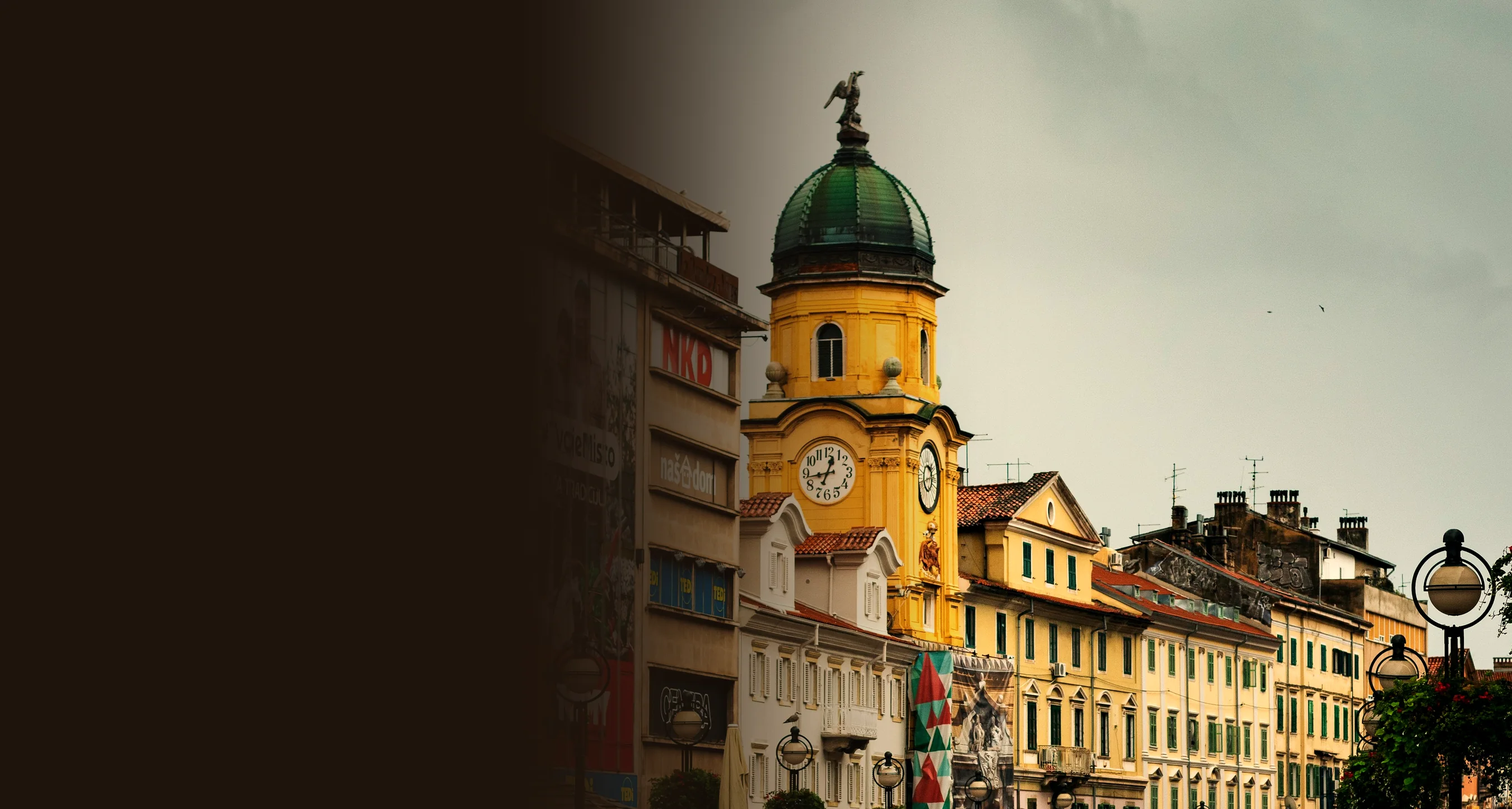
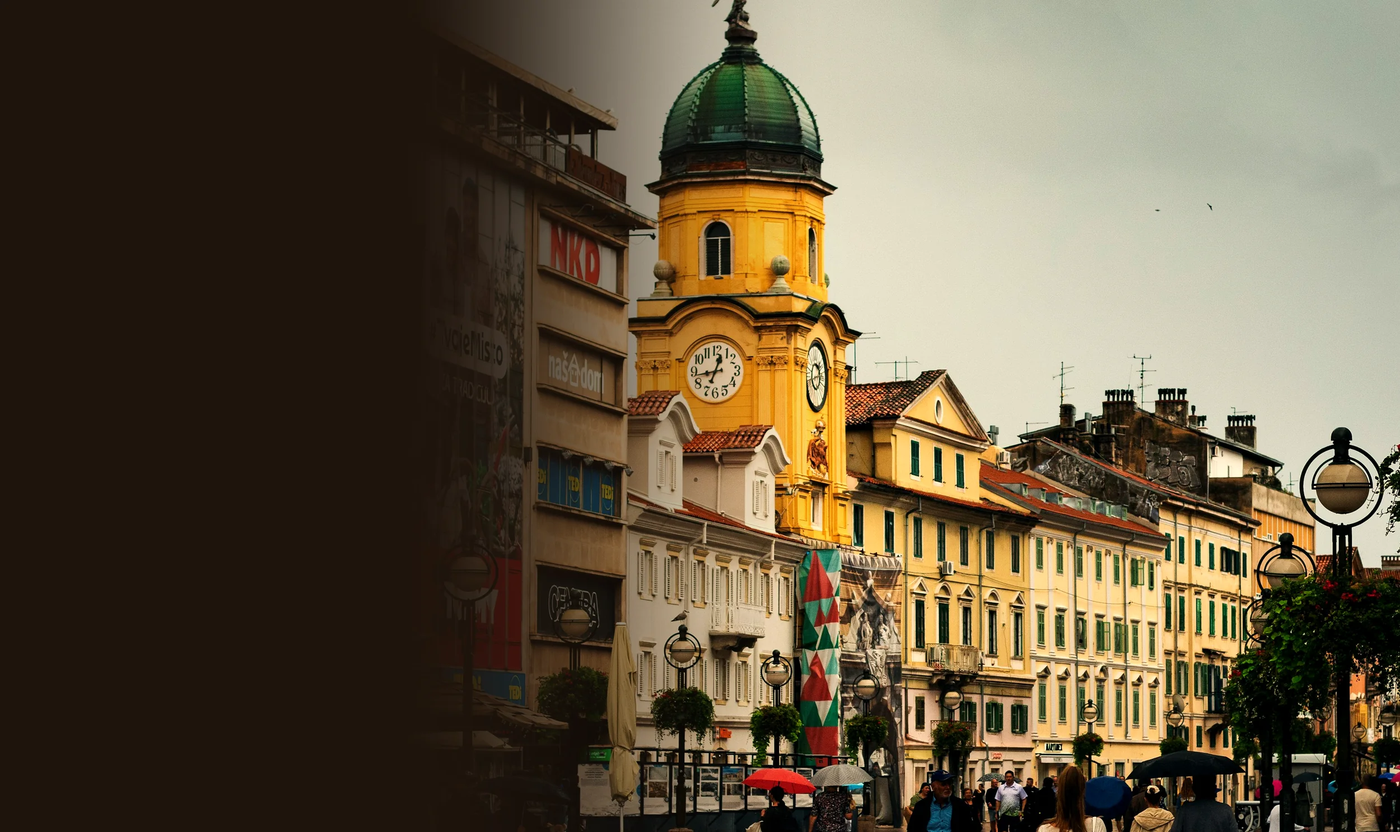
Pravne informacije: a little of the Korzo street back, passers-by small and fading into the dark at the bottom

diff --git a/index.html b/index.html
@@ -14,12 +14,12 @@
 <meta property="og:description" content="Prevoditeljska agencija Orbita: ovjereni prijevodi sudskih tumača, pisani i usmeni prijevodi na više od 30 jezika te lektura. Uredi u Rijeci (Kastav) i Zagrebu. Zatražite neobvezujuću ponudu.">
 <meta property="og:image" content="https://www.orbitaprijevodi.com/assets/hero-desk.jpg">
 <meta property="og:locale" content="hr_HR">
-<link rel="preload" as="image" href="assets/hero-desk.webp?v=116" type="image/webp">
+<link rel="preload" as="image" href="assets/hero-desk.webp?v=117" type="image/webp">
 <script type="application/ld+json">{"@context": "https://schema.org", "@graph": [{"@type": "ProfessionalService", "name": "Orbita prijevodi, ured u Rijeci", "url": "https://www.orbitaprijevodi.com/", "image": "https://www.orbitaprijevodi.com/assets/hero-desk.jpg", "logo": "https://www.orbitaprijevodi.com/assets/orbita-logo.png", "telephone": "+385981631930", "email": "info@orbitaprijevodi.com", "address": {"@type": "PostalAddress", "streetAddress": "Ćikovići 109", "addressLocality": "Kastav", "postalCode": "51215", "addressCountry": "HR"}, "areaServed": "HR", "knowsLanguage": ["hr", "en", "sl", "sr", "de", "it", "fr", "es"], "contactPoint": [{"@type": "ContactPoint", "telephone": "+385981631930", "contactType": "customer service", "availableLanguage": ["Croatian", "English", "Slovenian"]}, {"@type": "ContactPoint", "telephone": "+38551223932", "contactType": "customer service", "availableLanguage": ["Croatian", "English", "Slovenian"]}]}, {"@type": "ProfessionalService", "name": "Orbita prijevodi, ured u Zagrebu", "url": "https://www.orbitaprijevodi.com/", "image": "https://www.orbitaprijevodi.com/assets/hero-desk.jpg", "logo": "https://www.orbitaprijevodi.com/assets/orbita-logo.png", "telephone": "+385916126784", "email": "zagreb@orbitaprijevodi.com", "address": {"@type": "PostalAddress", "streetAddress": "Martićeva ulica 67", "addressLocality": "Zagreb", "postalCode": "10000", "addressCountry": "HR"}, "areaServed": "HR", "knowsLanguage": ["hr", "en", "sl", "sr", "de", "it", "fr", "es"], "contactPoint": [{"@type": "ContactPoint", "telephone": "+385916126784", "contactType": "customer service", "availableLanguage": ["Croatian", "English", "Slovenian"]}, {"@type": "ContactPoint", "telephone": "+38512018053", "contactType": "customer service", "availableLanguage": ["Croatian", "English", "Slovenian"]}]}]}</script>
 <link rel="preconnect" href="https://fonts.googleapis.com">
 <link rel="preconnect" href="https://fonts.gstatic.com" crossorigin>
 <link href="https://fonts.googleapis.com/css2?family=Fraunces:ital,opsz,wght@0,9..144,300;0,9..144,400;1,9..144,300;1,9..144,400&family=DM+Sans:wght@400;500&family=DM+Mono:wght@400&display=swap" rel="stylesheet">
-<link rel="stylesheet" href="styles.css?v=116">
+<link rel="stylesheet" href="styles.css?v=117">
 </head>
 <body>
 
@@ -308,11 +308,11 @@
 
 <a class="float-cta pill pill-accent" href="#ponuda">Zatražite ponudu</a>
 
-<script src="content.js?v=116"></script>
+<script src="content.js?v=117"></script>
 <script src="https://cdn.jsdelivr.net/npm/topojson-client@3.1.0/dist/topojson-client.min.js"></script>
-<script src="globe.js?v=116"></script>
-<script src="app.js?v=116"></script>
-<script src="form.js?v=116"></script>
-<script src="consent.js?v=116"></script>
+<script src="globe.js?v=117"></script>
+<script src="app.js?v=117"></script>
+<script src="form.js?v=117"></script>
+<script src="consent.js?v=117"></script>
 </body>
 </html>

diff --git a/pisanje-dokumentacije-za-studij-i-zaposlenje-u-inozemstvu/index.html b/pisanje-dokumentacije-za-studij-i-zaposlenje-u-inozemstvu/index.html
@@ -19,7 +19,7 @@
 <link rel="preconnect" href="https://fonts.googleapis.com">
 <link rel="preconnect" href="https://fonts.gstatic.com" crossorigin>
 <link href="https://fonts.googleapis.com/css2?family=Fraunces:ital,opsz,wght@0,9..144,300;0,9..144,400;1,9..144,300;1,9..144,400&family=DM+Sans:wght@400;500&family=DM+Mono:wght@400&display=swap" rel="stylesheet">
-<link rel="stylesheet" href="../styles.css?v=116">
+<link rel="stylesheet" href="../styles.css?v=117">
 </head>
 <body class="subpage">
 <header class="nav" id="nav">
@@ -39,7 +39,7 @@
 </header>
 <main>
   <section class="hero page-hero">
-    <div class="hero-bg lp-photo" style="background-image:url(../assets/usluge/pisanje-dokumentacije-za-studij-i-zaposlenje-u-inozemstvu.webp?v=116);background-position:50% 0%" aria-hidden="true"></div>
+    <div class="hero-bg lp-photo" style="background-image:url(../assets/usluge/pisanje-dokumentacije-za-studij-i-zaposlenje-u-inozemstvu.webp?v=117);background-position:50% 0%" aria-hidden="true"></div>
     <div class="hero-text">
       <div class="lp-offices" aria-label="Naši uredi"><div><strong>Rijeka</strong><span>Ćikovići 109, 51215 Kastav</span><a href="tel:+385981631930">098 163 19 30</a><a href="mailto:info@orbitaprijevodi.com">info@orbitaprijevodi.com</a></div><div><strong>Zagreb</strong><span>Martićeva ulica 67, 10000 Zagreb</span><a href="tel:+385916126784">091 612 6784</a><a href="mailto:zagreb@orbitaprijevodi.com">zagreb@orbitaprijevodi.com</a></div></div>
       <nav class="crumbs" aria-label="Putanja"><a href="../">Početna</a> <span>/</span> <a href="../usluge/">Usluge</a> <span>/</span> <span aria-current="page">Studij i posao u inozemstvu</span></nav>
@@ -140,8 +140,8 @@
     <nav><a href="../kontakt/">Kontakt</a><a href="../pravne-informacije/">Pravne informacije</a><a href="../zastita-privatnosti/">Zaštita privatnosti</a><a href="#" data-cookie-settings>Postavke kolačića</a></nav>
   </div>
 </footer>
-<script src="../page.js?v=116"></script>
-<script src="../consent.js?v=116"></script>
-<script src="../form.js?v=116"></script>
+<script src="../page.js?v=117"></script>
+<script src="../consent.js?v=117"></script>
+<script src="../form.js?v=117"></script>
 </body>
 </html>

diff --git a/pisanje-u-raznim-profesionalnim-podrucjima/index.html b/pisanje-u-raznim-profesionalnim-podrucjima/index.html
@@ -19,7 +19,7 @@
 <link rel="preconnect" href="https://fonts.googleapis.com">
 <link rel="preconnect" href="https://fonts.gstatic.com" crossorigin>
 <link href="https://fonts.googleapis.com/css2?family=Fraunces:ital,opsz,wght@0,9..144,300;0,9..144,400;1,9..144,300;1,9..144,400&family=DM+Sans:wght@400;500&family=DM+Mono:wght@400&display=swap" rel="stylesheet">
-<link rel="stylesheet" href="../styles.css?v=116">
+<link rel="stylesheet" href="../styles.css?v=117">
 </head>
 <body class="subpage">
 <header class="nav" id="nav">
@@ -39,7 +39,7 @@
 </header>
 <main>
   <section class="hero page-hero">
-    <div class="hero-bg lp-photo" style="background-image:url(../assets/usluge/pisanje-u-raznim-profesionalnim-podrucjima.webp?v=116);background-position:40% 50%" aria-hidden="true"></div>
+    <div class="hero-bg lp-photo" style="background-image:url(../assets/usluge/pisanje-u-raznim-profesionalnim-podrucjima.webp?v=117);background-position:40% 50%" aria-hidden="true"></div>
     <div class="hero-text">
       <div class="lp-offices" aria-label="Naši uredi"><div><strong>Rijeka</strong><span>Ćikovići 109, 51215 Kastav</span><a href="tel:+385981631930">098 163 19 30</a><a href="mailto:info@orbitaprijevodi.com">info@orbitaprijevodi.com</a></div><div><strong>Zagreb</strong><span>Martićeva ulica 67, 10000 Zagreb</span><a href="tel:+385916126784">091 612 6784</a><a href="mailto:zagreb@orbitaprijevodi.com">zagreb@orbitaprijevodi.com</a></div></div>
       <nav class="crumbs" aria-label="Putanja"><a href="../">Početna</a> <span>/</span> <a href="../usluge/">Usluge</a> <span>/</span> <span aria-current="page">Stručni tekstovi</span></nav>
@@ -140,8 +140,8 @@
     <nav><a href="../kontakt/">Kontakt</a><a href="../pravne-informacije/">Pravne informacije</a><a href="../zastita-privatnosti/">Zaštita privatnosti</a><a href="#" data-cookie-settings>Postavke kolačića</a></nav>
   </div>
 </footer>
-<script src="../page.js?v=116"></script>
-<script src="../consent.js?v=116"></script>
-<script src="../form.js?v=116"></script>
+<script src="../page.js?v=117"></script>
+<script src="../consent.js?v=117"></script>
+<script src="../form.js?v=117"></script>
 </body>
 </html>

diff --git a/asistiranje-u-pisanju-teksta/index.html b/asistiranje-u-pisanju-teksta/index.html
@@ -19,7 +19,7 @@
 <link rel="preconnect" href="https://fonts.googleapis.com">
 <link rel="preconnect" href="https://fonts.gstatic.com" crossorigin>
 <link href="https://fonts.googleapis.com/css2?family=Fraunces:ital,opsz,wght@0,9..144,300;0,9..144,400;1,9..144,300;1,9..144,400&family=DM+Sans:wght@400;500&family=DM+Mono:wght@400&display=swap" rel="stylesheet">
-<link rel="stylesheet" href="../styles.css?v=116">
+<link rel="stylesheet" href="../styles.css?v=117">
 </head>
 <body class="subpage">
 <header class="nav" id="nav">
@@ -39,7 +39,7 @@
 </header>
 <main>
   <section class="hero page-hero">
-    <div class="hero-bg lp-photo" style="background-image:url(../assets/usluge/asistiranje-u-pisanju-teksta.webp?v=116);background-position:50% 18%" aria-hidden="true"></div>
+    <div class="hero-bg lp-photo" style="background-image:url(../assets/usluge/asistiranje-u-pisanju-teksta.webp?v=117);background-position:50% 18%" aria-hidden="true"></div>
     <div class="hero-text">
       <div class="lp-offices" aria-label="Naši uredi"><div><strong>Rijeka</strong><span>Ćikovići 109, 51215 Kastav</span><a href="tel:+385981631930">098 163 19 30</a><a href="mailto:info@orbitaprijevodi.com">info@orbitaprijevodi.com</a></div><div><strong>Zagreb</strong><span>Martićeva ulica 67, 10000 Zagreb</span><a href="tel:+385916126784">091 612 6784</a><a href="mailto:zagreb@orbitaprijevodi.com">zagreb@orbitaprijevodi.com</a></div></div>
       <nav class="crumbs" aria-label="Putanja"><a href="../">Početna</a> <span>/</span> <a href="../usluge/">Usluge</a> <span>/</span> <span aria-current="page">Životopisi i motivacijska pisma</span></nav>
@@ -140,8 +140,8 @@
     <nav><a href="../kontakt/">Kontakt</a><a href="../pravne-informacije/">Pravne informacije</a><a href="../zastita-privatnosti/">Zaštita privatnosti</a><a href="#" data-cookie-settings>Postavke kolačića</a></nav>
   </div>
 </footer>
-<script src="../page.js?v=116"></script>
-<script src="../consent.js?v=116"></script>
-<script src="../form.js?v=116"></script>
+<script src="../page.js?v=117"></script>
+<script src="../consent.js?v=117"></script>
+<script src="../form.js?v=117"></script>
 </body>
 </html>

diff --git a/marketinski-tekstovi/index.html b/marketinski-tekstovi/index.html
@@ -19,7 +19,7 @@
 <link rel="preconnect" href="https://fonts.googleapis.com">
 <link rel="preconnect" href="https://fonts.gstatic.com" crossorigin>
 <link href="https://fonts.googleapis.com/css2?family=Fraunces:ital,opsz,wght@0,9..144,300;0,9..144,400;1,9..144,300;1,9..144,400&family=DM+Sans:wght@400;500&family=DM+Mono:wght@400&display=swap" rel="stylesheet">
-<link rel="stylesheet" href="../styles.css?v=116">
+<link rel="stylesheet" href="../styles.css?v=117">
 </head>
 <body class="subpage">
 <header class="nav" id="nav">
@@ -39,7 +39,7 @@
 </header>
 <main>
   <section class="hero page-hero">
-    <div class="hero-bg lp-photo" style="background-image:url(../assets/usluge/marketinski-tekstovi.webp?v=116);background-position:5% 55%" aria-hidden="true"></div>
+    <div class="hero-bg lp-photo" style="background-image:url(../assets/usluge/marketinski-tekstovi.webp?v=117);background-position:5% 55%" aria-hidden="true"></div>
     <div class="hero-text">
       <div class="lp-offices" aria-label="Naši uredi"><div><strong>Rijeka</strong><span>Ćikovići 109, 51215 Kastav</span><a href="tel:+385981631930">098 163 19 30</a><a href="mailto:info@orbitaprijevodi.com">info@orbitaprijevodi.com</a></div><div><strong>Zagreb</strong><span>Martićeva ulica 67, 10000 Zagreb</span><a href="tel:+385916126784">091 612 6784</a><a href="mailto:zagreb@orbitaprijevodi.com">zagreb@orbitaprijevodi.com</a></div></div>
       <nav class="crumbs" aria-label="Putanja"><a href="../">Početna</a> <span>/</span> <a href="../usluge/">Usluge</a> <span>/</span> <span aria-current="page">Marketinški tekstovi</span></nav>
@@ -140,8 +140,8 @@
     <nav><a href="../kontakt/">Kontakt</a><a href="../pravne-informacije/">Pravne informacije</a><a href="../zastita-privatnosti/">Zaštita privatnosti</a><a href="#" data-cookie-settings>Postavke kolačića</a></nav>
   </div>
 </footer>
-<script src="../page.js?v=116"></script>
-<script src="../consent.js?v=116"></script>
-<script src="../form.js?v=116"></script>
+<script src="../page.js?v=117"></script>
+<script src="../consent.js?v=117"></script>
+<script src="../form.js?v=117"></script>
 </body>
 </html>

diff --git a/ovjereni-prijevodi/index.html b/ovjereni-prijevodi/index.html
@@ -19,7 +19,7 @@
 <link rel="preconnect" href="https://fonts.googleapis.com">
 <link rel="preconnect" href="https://fonts.gstatic.com" crossorigin>
 <link href="https://fonts.googleapis.com/css2?family=Fraunces:ital,opsz,wght@0,9..144,300;0,9..144,400;1,9..144,300;1,9..144,400&family=DM+Sans:wght@400;500&family=DM+Mono:wght@400&display=swap" rel="stylesheet">
-<link rel="stylesheet" href="../styles.css?v=116">
+<link rel="stylesheet" href="../styles.css?v=117">
 </head>
 <body class="subpage">
 <header class="nav" id="nav">
@@ -39,7 +39,7 @@
 </header>
 <main>
   <section class="hero page-hero">
-    <div class="hero-bg lp-photo" style="background-image:url(../assets/usluge/ovjereni-prijevodi.webp?v=116);background-position:45% 60%" aria-hidden="true"></div>
+    <div class="hero-bg lp-photo" style="background-image:url(../assets/usluge/ovjereni-prijevodi.webp?v=117);background-position:45% 60%" aria-hidden="true"></div>
     <div class="hero-text">
       <div class="lp-offices" aria-label="Naši uredi"><div><strong>Rijeka</strong><span>Ćikovići 109, 51215 Kastav</span><a href="tel:+385981631930">098 163 19 30</a><a href="mailto:info@orbitaprijevodi.com">info@orbitaprijevodi.com</a></div><div><strong>Zagreb</strong><span>Martićeva ulica 67, 10000 Zagreb</span><a href="tel:+385916126784">091 612 6784</a><a href="mailto:zagreb@orbitaprijevodi.com">zagreb@orbitaprijevodi.com</a></div></div>
       <nav class="crumbs" aria-label="Putanja"><a href="../">Početna</a> <span>/</span> <a href="../usluge/">Usluge</a> <span>/</span> <span aria-current="page">Ovjereni prijevodi</span></nav>
@@ -142,8 +142,8 @@
     <nav><a href="../kontakt/">Kontakt</a><a href="../pravne-informacije/">Pravne informacije</a><a href="../zastita-privatnosti/">Zaštita privatnosti</a><a href="#" data-cookie-settings>Postavke kolačića</a></nav>
   </div>
 </footer>
-<script src="../page.js?v=116"></script>
-<script src="../consent.js?v=116"></script>
-<script src="../form.js?v=116"></script>
+<script src="../page.js?v=117"></script>
+<script src="../consent.js?v=117"></script>
+<script src="../form.js?v=117"></script>
 </body>
 </html>

diff --git a/usmeni-prijevodi/index.html b/usmeni-prijevodi/index.html
@@ -19,7 +19,7 @@
 <link rel="preconnect" href="https://fonts.googleapis.com">
 <link rel="preconnect" href="https://fonts.gstatic.com" crossorigin>
 <link href="https://fonts.googleapis.com/css2?family=Fraunces:ital,opsz,wght@0,9..144,300;0,9..144,400;1,9..144,300;1,9..144,400&family=DM+Sans:wght@400;500&family=DM+Mono:wght@400&display=swap" rel="stylesheet">
-<link rel="stylesheet" href="../styles.css?v=116">
+<link rel="stylesheet" href="../styles.css?v=117">
 </head>
 <body class="subpage">
 <header class="nav" id="nav">
@@ -39,7 +39,7 @@
 </header>
 <main>
   <section class="hero page-hero">
-    <div class="hero-bg lp-photo" style="background-image:url(../assets/usluge/usmeni-prijevodi.webp?v=116);background-position:55% 70%" aria-hidden="true"></div>
+    <div class="hero-bg lp-photo" style="background-image:url(../assets/usluge/usmeni-prijevodi.webp?v=117);background-position:55% 70%" aria-hidden="true"></div>
     <div class="hero-text">
       <div class="lp-offices" aria-label="Naši uredi"><div><strong>Rijeka</strong><span>Ćikovići 109, 51215 Kastav</span><a href="tel:+385981631930">098 163 19 30</a><a href="mailto:info@orbitaprijevodi.com">info@orbitaprijevodi.com</a></div><div><strong>Zagreb</strong><span>Martićeva ulica 67, 10000 Zagreb</span><a href="tel:+385916126784">091 612 6784</a><a href="mailto:zagreb@orbitaprijevodi.com">zagreb@orbitaprijevodi.com</a></div></div>
       <nav class="crumbs" aria-label="Putanja"><a href="../">Početna</a> <span>/</span> <a href="../usluge/">Usluge</a> <span>/</span> <span aria-current="page">Usmeno prevođenje</span></nav>
@@ -140,8 +140,8 @@
     <nav><a href="../kontakt/">Kontakt</a><a href="../pravne-informacije/">Pravne informacije</a><a href="../zastita-privatnosti/">Zaštita privatnosti</a><a href="#" data-cookie-settings>Postavke kolačića</a></nav>
   </div>
 </footer>
-<script src="../page.js?v=116"></script>
-<script src="../consent.js?v=116"></script>
-<script src="../form.js?v=116"></script>
+<script src="../page.js?v=117"></script>
+<script src="../consent.js?v=117"></script>
+<script src="../form.js?v=117"></script>
 </body>
 </html>

diff --git a/pisani-prijevodi/index.html b/pisani-prijevodi/index.html
@@ -19,7 +19,7 @@
 <link rel="preconnect" href="https://fonts.googleapis.com">
 <link rel="preconnect" href="https://fonts.gstatic.com" crossorigin>
 <link href="https://fonts.googleapis.com/css2?family=Fraunces:ital,opsz,wght@0,9..144,300;0,9..144,400;1,9..144,300;1,9..144,400&family=DM+Sans:wght@400;500&family=DM+Mono:wght@400&display=swap" rel="stylesheet">
-<link rel="stylesheet" href="../styles.css?v=116">
+<link rel="stylesheet" href="../styles.css?v=117">
 </head>
 <body class="subpage">
 <header class="nav" id="nav">
@@ -39,7 +39,7 @@
 </header>
 <main>
   <section class="hero page-hero">
-    <div class="hero-bg lp-photo" style="background-image:url(../assets/usluge/pisani-prijevodi.webp?v=116);background-position:70% 40%" aria-hidden="true"></div>
+    <div class="hero-bg lp-photo" style="background-image:url(../assets/usluge/pisani-prijevodi.webp?v=117);background-position:70% 40%" aria-hidden="true"></div>
     <div class="hero-text">
       <div class="lp-offices" aria-label="Naši uredi"><div><strong>Rijeka</strong><span>Ćikovići 109, 51215 Kastav</span><a href="tel:+385981631930">098 163 19 30</a><a href="mailto:info@orbitaprijevodi.com">info@orbitaprijevodi.com</a></div><div><strong>Zagreb</strong><span>Martićeva ulica 67, 10000 Zagreb</span><a href="tel:+385916126784">091 612 6784</a><a href="mailto:zagreb@orbitaprijevodi.com">zagreb@orbitaprijevodi.com</a></div></div>
       <nav class="crumbs" aria-label="Putanja"><a href="../">Početna</a> <span>/</span> <a href="../usluge/">Usluge</a> <span>/</span> <span aria-current="page">Pisani prijevodi</span></nav>
@@ -141,8 +141,8 @@
     <nav><a href="../kontakt/">Kontakt</a><a href="../pravne-informacije/">Pravne informacije</a><a href="../zastita-privatnosti/">Zaštita privatnosti</a><a href="#" data-cookie-settings>Postavke kolačića</a></nav>
   </div>
 </footer>
-<script src="../page.js?v=116"></script>
-<script src="../consent.js?v=116"></script>
-<script src="../form.js?v=116"></script>
+<script src="../page.js?v=117"></script>
+<script src="../consent.js?v=117"></script>
+<script src="../form.js?v=117"></script>
 </body>
 </html>

diff --git a/lektoriranje/index.html b/lektoriranje/index.html
@@ -19,7 +19,7 @@
 <link rel="preconnect" href="https://fonts.googleapis.com">
 <link rel="preconnect" href="https://fonts.gstatic.com" crossorigin>
 <link href="https://fonts.googleapis.com/css2?family=Fraunces:ital,opsz,wght@0,9..144,300;0,9..144,400;1,9..144,300;1,9..144,400&family=DM+Sans:wght@400;500&family=DM+Mono:wght@400&display=swap" rel="stylesheet">
-<link rel="stylesheet" href="../styles.css?v=116">
+<link rel="stylesheet" href="../styles.css?v=117">
 </head>
 <body class="subpage">
 <header class="nav" id="nav">
@@ -39,7 +39,7 @@
 </header>
 <main>
   <section class="hero page-hero">
-    <div class="hero-bg lp-photo" style="background-image:url(../assets/usluge/lektoriranje.webp?v=116);background-position:45% 55%" aria-hidden="true"></div>
+    <div class="hero-bg lp-photo" style="background-image:url(../assets/usluge/lektoriranje.webp?v=117);background-position:45% 55%" aria-hidden="true"></div>
     <div class="hero-text">
       <div class="lp-offices" aria-label="Naši uredi"><div><strong>Rijeka</strong><span>Ćikovići 109, 51215 Kastav</span><a href="tel:+385981631930">098 163 19 30</a><a href="mailto:info@orbitaprijevodi.com">info@orbitaprijevodi.com</a></div><div><strong>Zagreb</strong><span>Martićeva ulica 67, 10000 Zagreb</span><a href="tel:+385916126784">091 612 6784</a><a href="mailto:zagreb@orbitaprijevodi.com">zagreb@orbitaprijevodi.com</a></div></div>
       <nav class="crumbs" aria-label="Putanja"><a href="../">Početna</a> <span>/</span> <a href="../usluge/">Usluge</a> <span>/</span> <span aria-current="page">Lektura i korektura</span></nav>
@@ -140,8 +140,8 @@
     <nav><a href="../kontakt/">Kontakt</a><a href="../pravne-informacije/">Pravne informacije</a><a href="../zastita-privatnosti/">Zaštita privatnosti</a><a href="#" data-cookie-settings>Postavke kolačića</a></nav>
   </div>
 </footer>
-<script src="../page.js?v=116"></script>
-<script src="../consent.js?v=116"></script>
-<script src="../form.js?v=116"></script>
+<script src="../page.js?v=117"></script>
+<script src="../consent.js?v=117"></script>
+<script src="../form.js?v=117"></script>
 </body>
 </html>

diff --git a/zastita-privatnosti/index.html b/zastita-privatnosti/index.html
@@ -19,7 +19,7 @@
 <link rel="preconnect" href="https://fonts.googleapis.com">
 <link rel="preconnect" href="https://fonts.gstatic.com" crossorigin>
 <link href="https://fonts.googleapis.com/css2?family=Fraunces:ital,opsz,wght@0,9..144,300;0,9..144,400;1,9..144,300;1,9..144,400&family=DM+Sans:wght@400;500&family=DM+Mono:wght@400&display=swap" rel="stylesheet">
-<link rel="stylesheet" href="../styles.css?v=116">
+<link rel="stylesheet" href="../styles.css?v=117">
 </head>
 <body class="subpage">
 <header class="nav" id="nav">
@@ -39,7 +39,7 @@
 </header>
 <main>
   <section class="hero page-hero">
-    <div class="hero-bg lp-photo" style="background-image:url(../assets/usluge/zastita-privatnosti.webp?v=116);background-position:60% 50%" aria-hidden="true"></div>
+    <div class="hero-bg lp-photo" style="background-image:url(../assets/usluge/zastita-privatnosti.webp?v=117);background-position:60% 50%" aria-hidden="true"></div>
     <div class="hero-text">
       <div class="lp-offices" aria-label="Naši uredi"><div><strong>Rijeka</strong><span>Ćikovići 109, 51215 Kastav</span><a href="tel:+385981631930">098 163 19 30</a><a href="mailto:info@orbitaprijevodi.com">info@orbitaprijevodi.com</a></div><div><strong>Zagreb</strong><span>Martićeva ulica 67, 10000 Zagreb</span><a href="tel:+385916126784">091 612 6784</a><a href="mailto:zagreb@orbitaprijevodi.com">zagreb@orbitaprijevodi.com</a></div></div>
       <nav class="crumbs" aria-label="Putanja"><a href="../">Početna</a> <span>/</span> <span aria-current="page">Zaštita privatnosti</span></nav>
@@ -71,8 +71,8 @@
     <nav><a href="../kontakt/">Kontakt</a><a href="../pravne-informacije/">Pravne informacije</a><a href="../zastita-privatnosti/">Zaštita privatnosti</a><a href="#" data-cookie-settings>Postavke kolačića</a></nav>
   </div>
 </footer>
-<script src="../page.js?v=116"></script>
-<script src="../consent.js?v=116"></script>
-<script src="../form.js?v=116"></script>
+<script src="../page.js?v=117"></script>
+<script src="../consent.js?v=117"></script>
+<script src="../form.js?v=117"></script>
 </body>
 </html>

diff --git a/pravne-informacije/index.html b/pravne-informacije/index.html
@@ -19,7 +19,7 @@
 <link rel="preconnect" href="https://fonts.googleapis.com">
 <link rel="preconnect" href="https://fonts.gstatic.com" crossorigin>
 <link href="https://fonts.googleapis.com/css2?family=Fraunces:ital,opsz,wght@0,9..144,300;0,9..144,400;1,9..144,300;1,9..144,400&family=DM+Sans:wght@400;500&family=DM+Mono:wght@400&display=swap" rel="stylesheet">
-<link rel="stylesheet" href="../styles.css?v=116">
+<link rel="stylesheet" href="../styles.css?v=117">
 </head>
 <body class="subpage">
 <header class="nav" id="nav">
@@ -39,7 +39,7 @@
 </header>
 <main>
   <section class="hero page-hero">
-    <div class="hero-bg lp-photo" style="background-image:url(../assets/usluge/rijeka-korzo.webp?v=116);background-position:right 40%" aria-hidden="true"></div>
+    <div class="hero-bg lp-photo" style="background-image:url(../assets/usluge/rijeka-korzo.webp?v=117);background-position:right center" aria-hidden="true"></div>
     <div class="hero-text">
       <div class="lp-offices" aria-label="Naši uredi"><div><strong>Rijeka</strong><span>Ćikovići 109, 51215 Kastav</span><a href="tel:+385981631930">098 163 19 30</a><a href="mailto:info@orbitaprijevodi.com">info@orbitaprijevodi.com</a></div><div><strong>Zagreb</strong><span>Martićeva ulica 67, 10000 Zagreb</span><a href="tel:+385916126784">091 612 6784</a><a href="mailto:zagreb@orbitaprijevodi.com">zagreb@orbitaprijevodi.com</a></div></div>
       <nav class="crumbs" aria-label="Putanja"><a href="../">Početna</a> <span>/</span> <span aria-current="page">Pravne informacije</span></nav>
@@ -71,8 +71,8 @@
     <nav><a href="../kontakt/">Kontakt</a><a href="../pravne-informacije/">Pravne informacije</a><a href="../zastita-privatnosti/">Zaštita privatnosti</a><a href="#" data-cookie-settings>Postavke kolačića</a></nav>
   </div>
 </footer>
-<script src="../page.js?v=116"></script>
-<script src="../consent.js?v=116"></script>
-<script src="../form.js?v=116"></script>
+<script src="../page.js?v=117"></script>
+<script src="../consent.js?v=117"></script>
+<script src="../form.js?v=117"></script>
 </body>
 </html>

diff --git a/cesta-pitanja/index.html b/cesta-pitanja/index.html
@@ -19,7 +19,7 @@
 <link rel="preconnect" href="https://fonts.googleapis.com">
 <link rel="preconnect" href="https://fonts.gstatic.com" crossorigin>
 <link href="https://fonts.googleapis.com/css2?family=Fraunces:ital,opsz,wght@0,9..144,300;0,9..144,400;1,9..144,300;1,9..144,400&family=DM+Sans:wght@400;500&family=DM+Mono:wght@400&display=swap" rel="stylesheet">
-<link rel="stylesheet" href="../styles.css?v=116">
+<link rel="stylesheet" href="../styles.css?v=117">
 </head>
 <body class="subpage">
 <header class="nav" id="nav">
@@ -39,7 +39,7 @@
 </header>
 <main>
   <section class="hero page-hero">
-    <div class="hero-bg lp-photo" style="background-image:url(../assets/usluge/cesta-pitanja.webp?v=116);background-position:60% 55%" aria-hidden="true"></div>
+    <div class="hero-bg lp-photo" style="background-image:url(../assets/usluge/cesta-pitanja.webp?v=117);background-position:60% 55%" aria-hidden="true"></div>
     <div class="hero-text">
       <div class="lp-offices" aria-label="Naši uredi"><div><strong>Rijeka</strong><span>Ćikovići 109, 51215 Kastav</span><a href="tel:+385981631930">098 163 19 30</a><a href="mailto:info@orbitaprijevodi.com">info@orbitaprijevodi.com</a></div><div><strong>Zagreb</strong><span>Martićeva ulica 67, 10000 Zagreb</span><a href="tel:+385916126784">091 612 6784</a><a href="mailto:zagreb@orbitaprijevodi.com">zagreb@orbitaprijevodi.com</a></div></div>
       <nav class="crumbs" aria-label="Putanja"><a href="../">Početna</a> <span>/</span> <span aria-current="page">Česta pitanja</span></nav>
@@ -118,8 +118,8 @@
     <nav><a href="../kontakt/">Kontakt</a><a href="../pravne-informacije/">Pravne informacije</a><a href="../zastita-privatnosti/">Zaštita privatnosti</a><a href="#" data-cookie-settings>Postavke kolačića</a></nav>
   </div>
 </footer>
-<script src="../page.js?v=116"></script>
-<script src="../consent.js?v=116"></script>
-<script src="../form.js?v=116"></script>
+<script src="../page.js?v=117"></script>
+<script src="../consent.js?v=117"></script>
+<script src="../form.js?v=117"></script>
 </body>
 </html>
